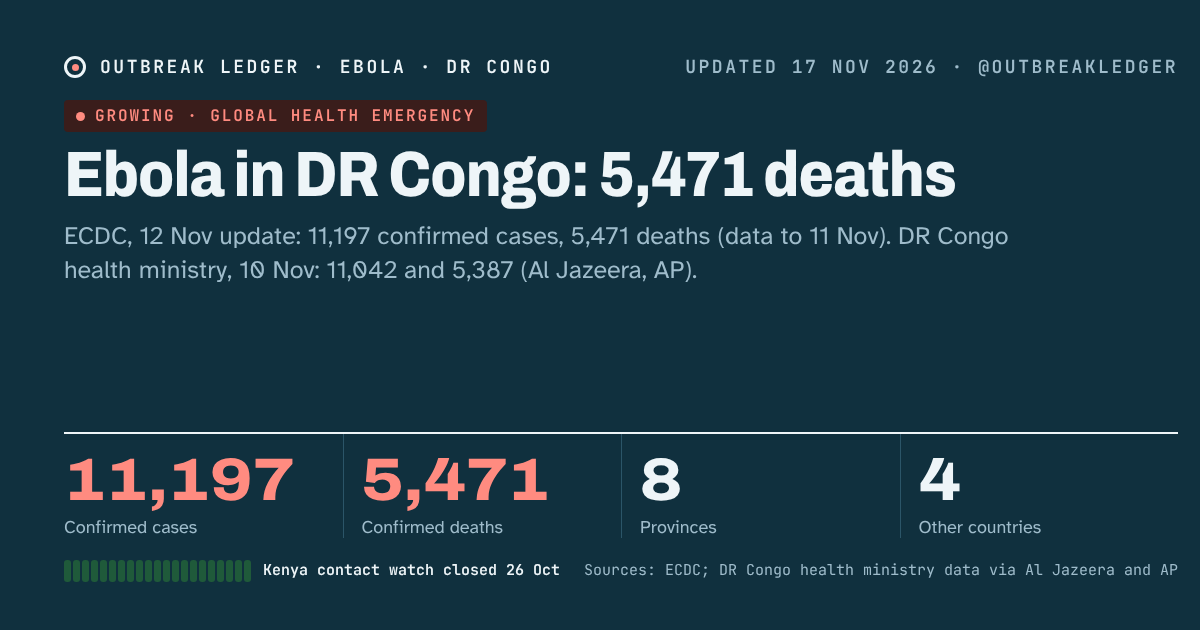
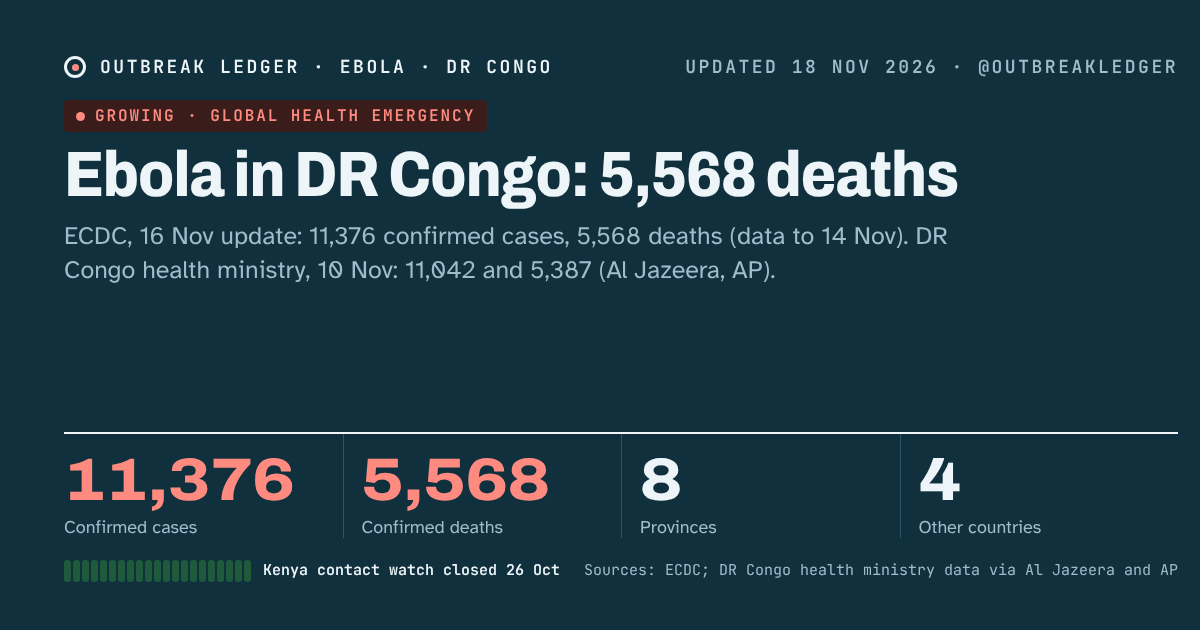
Trackers: Ebola ECDC 11,376 cases / 5,568 deaths (16 Nov), US entry suspension to 10 Dec; others checked, no change
Claude-Session: https://claude.ai/code/session_01DjK934MGj4uKY77RiACNyU

diff --git a/site/ebola/share/latest-post.md b/site/ebola/share/latest-post.md
@@ -1,5 +1,5 @@
-Africa CDC says the Ebola outbreak in DR Congo is still not under control, six months after it was declared on 15 May (Al Jazeera, 15 Nov). ECDC counts 11,197 confirmed cases and 5,471 deaths (data to 11 Nov).
+ECDC's 16 Nov update counts 11,376 confirmed Ebola cases and 5,568 deaths in DR Congo (data to 14 Nov), up from 11,197 and 5,471 in its 12 Nov update. CDC's US entry suspension now runs through 10 Dec.
 
 https://nhlebe1.github.io/ai-scheduler-platform/ebola/
 
-Sources: Al Jazeera, 15 Nov (aljazeera.com/news/2026/11/15/africa-cdc-says-ebola-outbreak-in-dr-congo-still-not-under-control); ECDC update of 12 Nov (ecdc.europa.eu/en/public-health-events/2026-eip-00026/2026-11-12).
+Sources: ECDC update of 16 Nov (ecdc.europa.eu/en/public-health-events/2026-eip-00026/2026-11-16); Federal Register public inspection notice (public-inspection.federalregister.gov/2026-23114.pdf).
